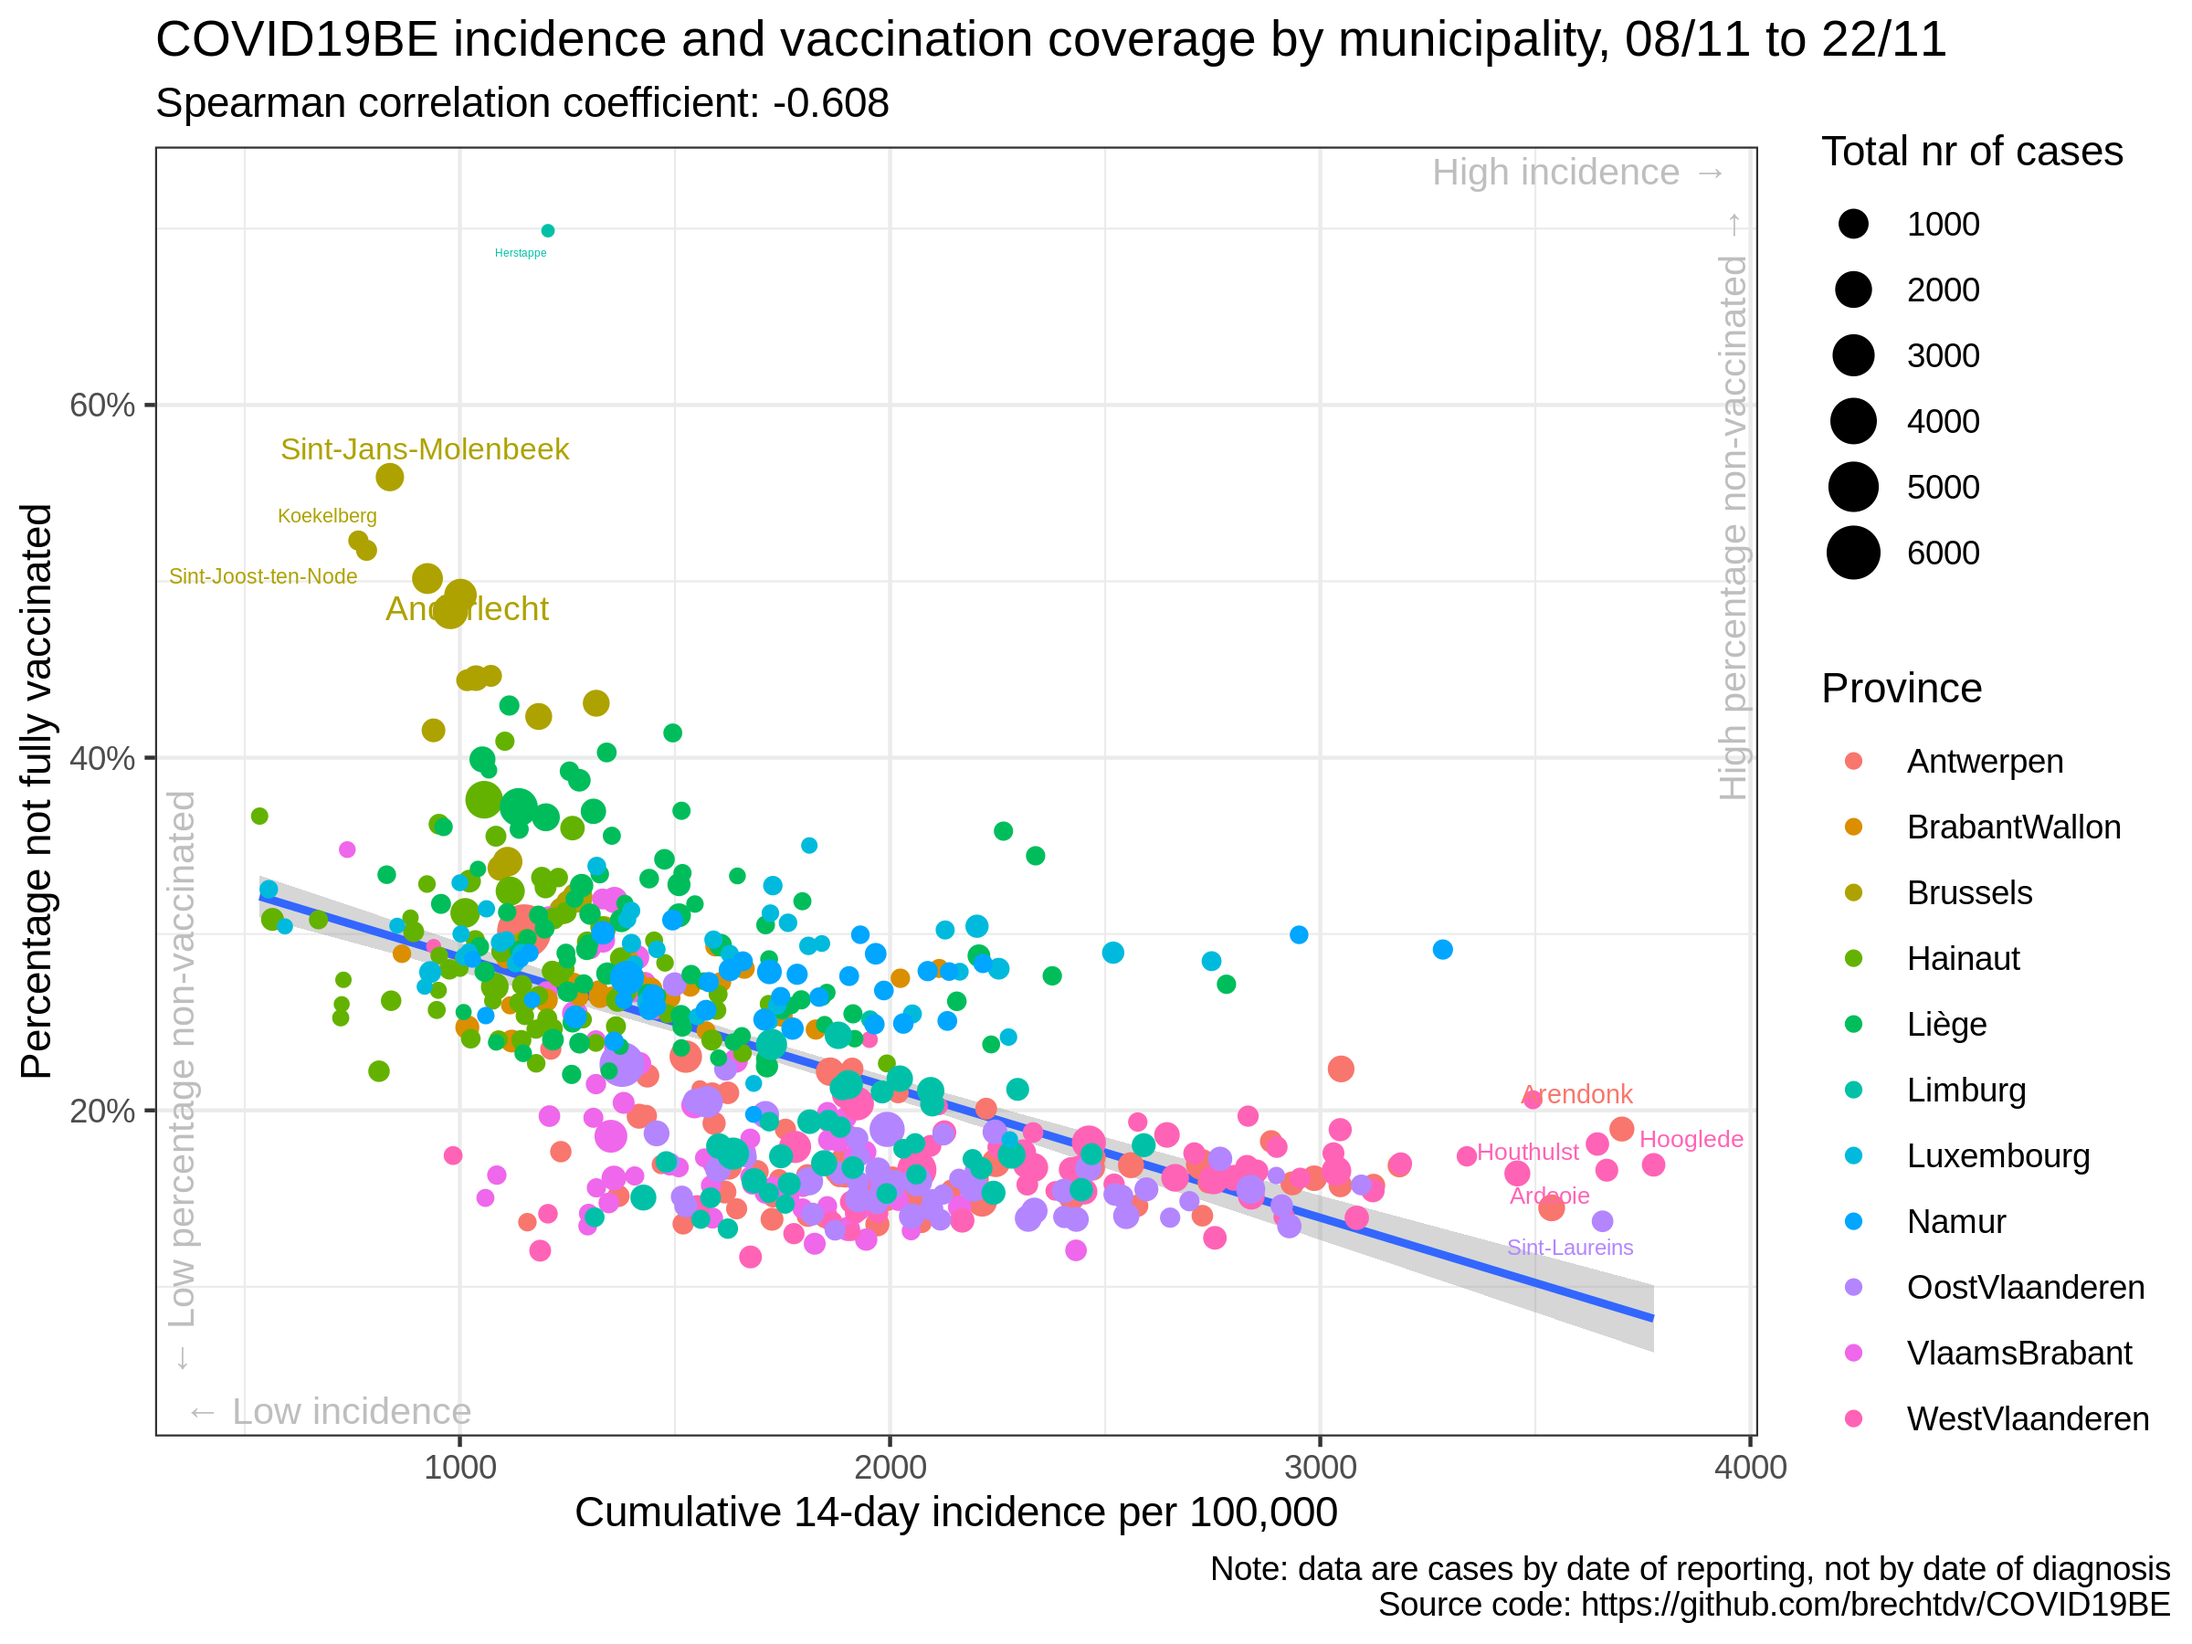
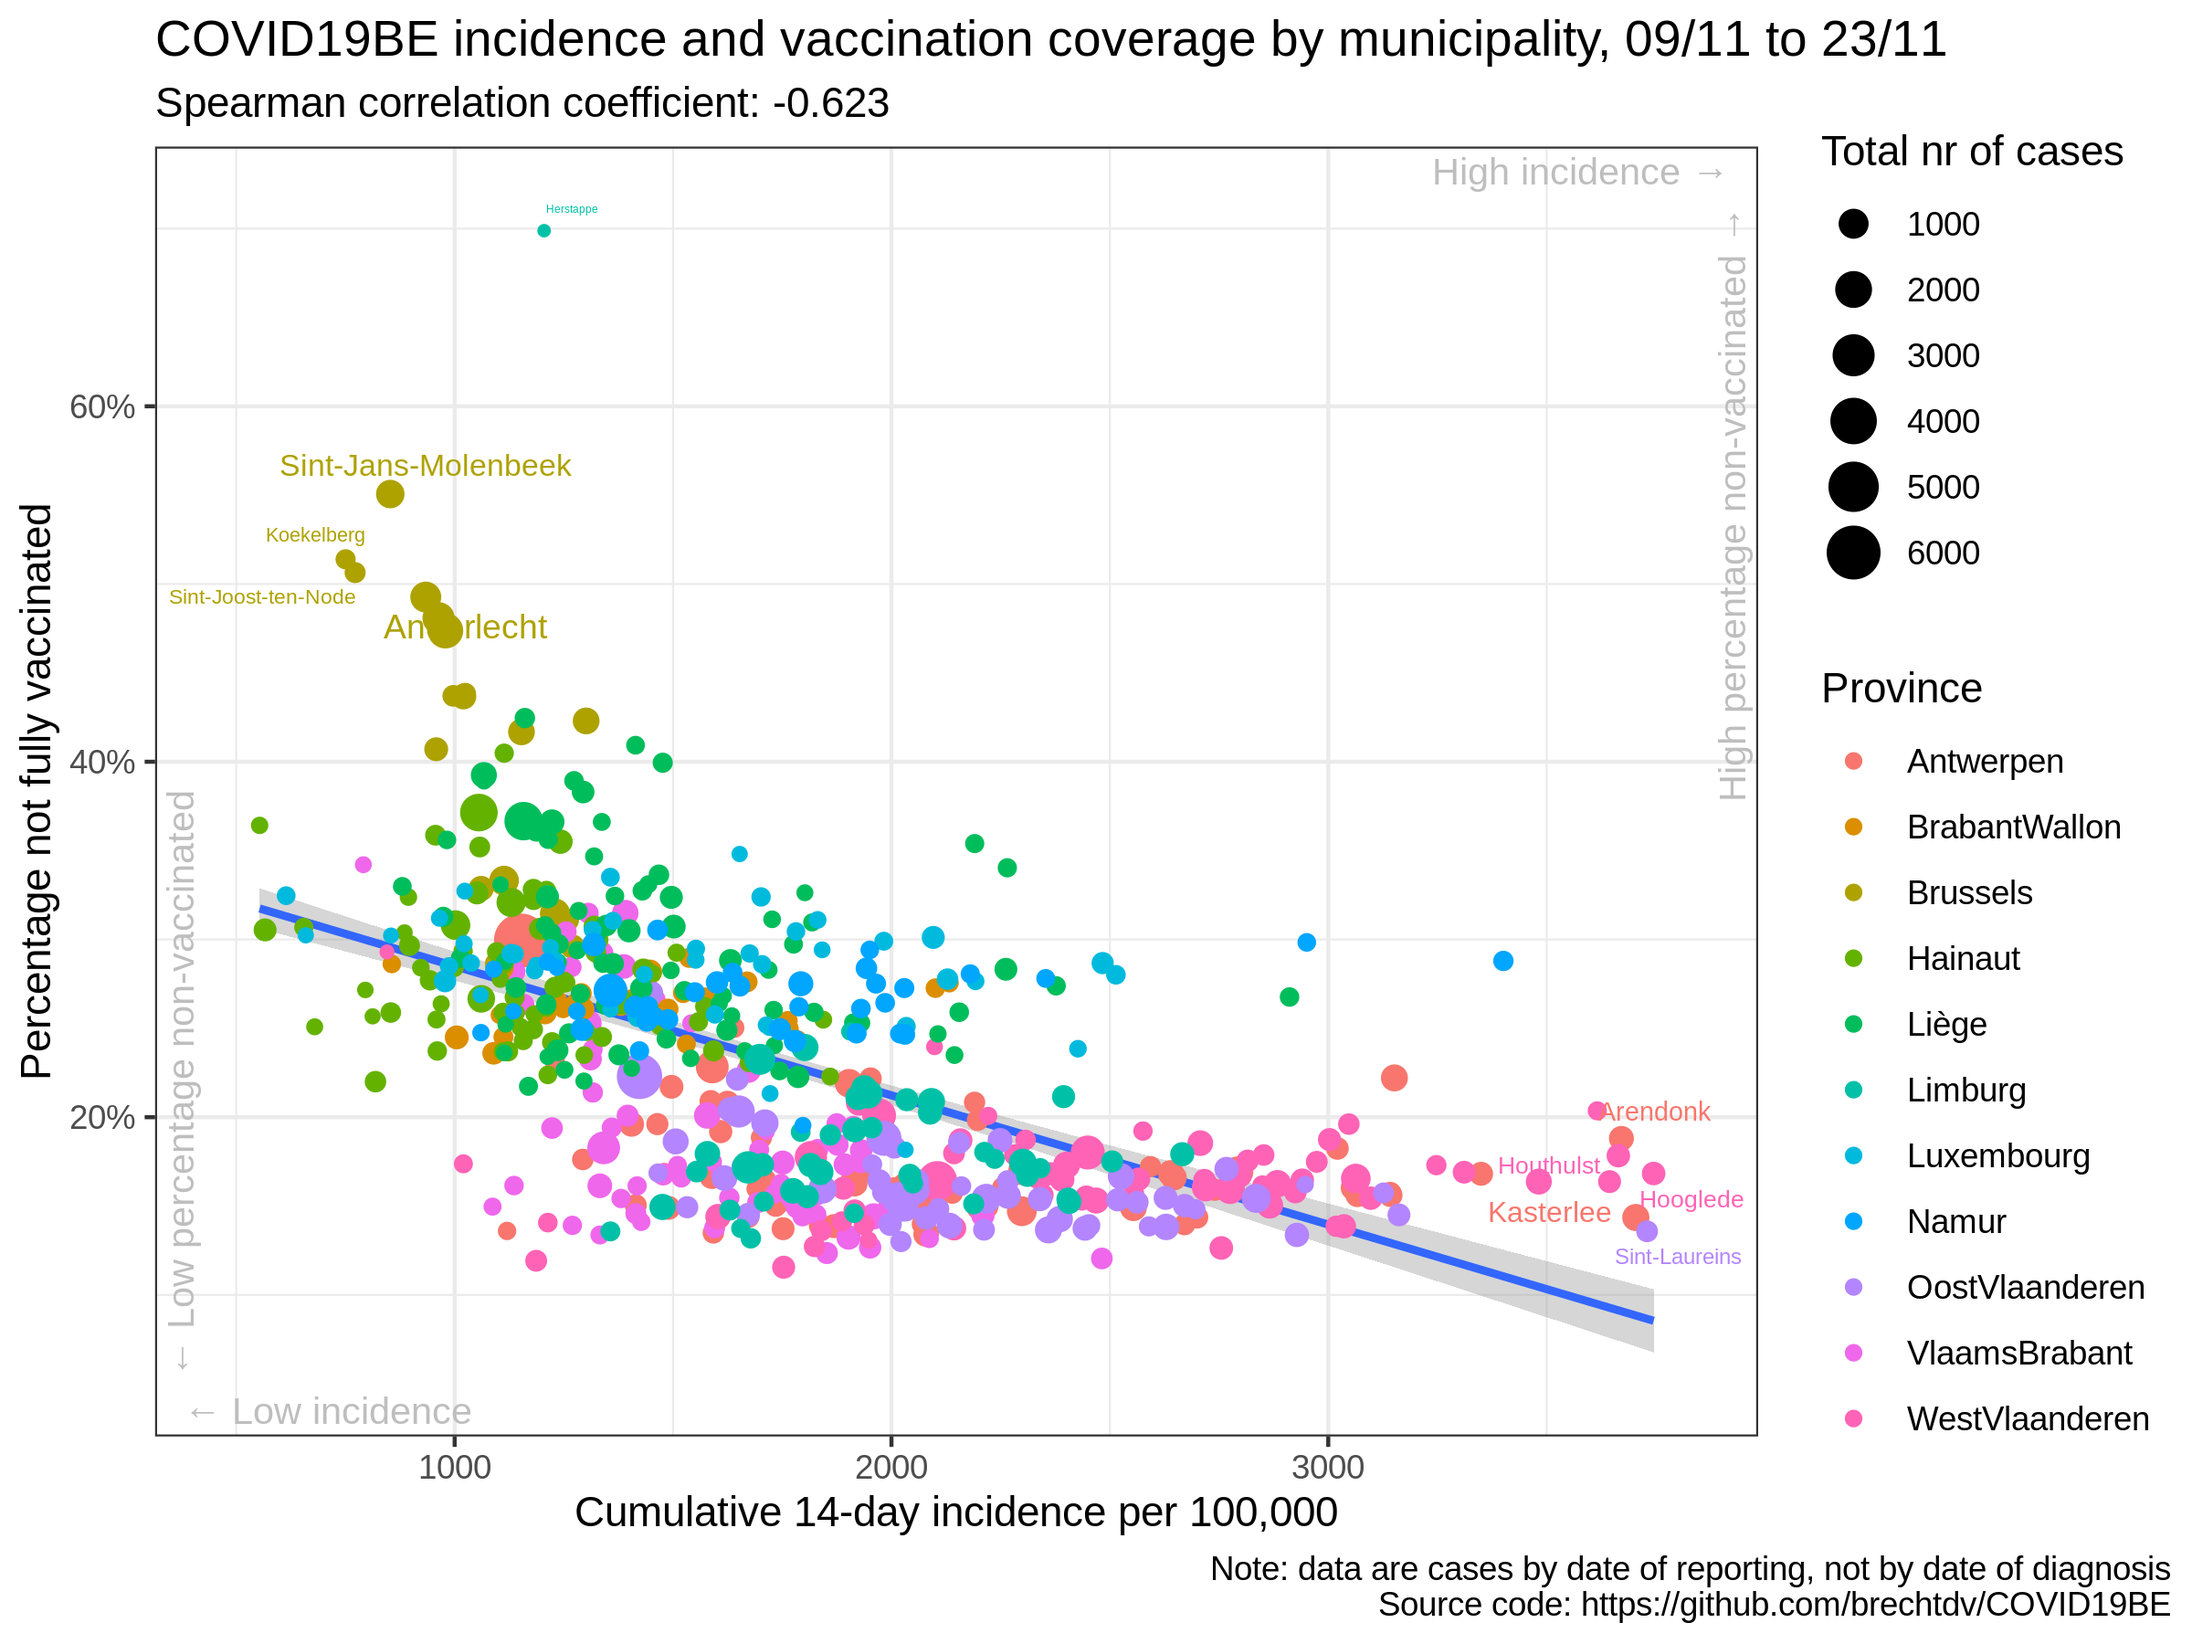
update situation

diff --git a/vaccination/README.md b/vaccination/README.md
@@ -13,18 +13,18 @@
 
 |                | estimate.rho | p.value |
 | :------------- | -----------: | ------: |
-| Antwerpen      |      \-0.191 |   0.116 |
-| BrabantWallon  |        0.109 |   0.586 |
-| Brussels       |      \-0.826 |   0.000 |
-| Hainaut        |      \-0.262 |   0.030 |
-| Liège          |      \-0.313 |   0.004 |
-| Limburg        |        0.234 |   0.135 |
-| Luxembourg     |      \-0.291 |   0.056 |
-| Namur          |        0.095 |   0.570 |
-| OostVlaanderen |      \-0.460 |   0.000 |
-| VlaamsBrabant  |      \-0.466 |   0.000 |
-| WestVlaanderen |        0.139 |   0.274 |
-| Belgium        |      \-0.608 |   0.000 |
+| Antwerpen      |      \-0.215 |   0.076 |
+| BrabantWallon  |        0.139 |   0.487 |
+| Brussels       |      \-0.807 |   0.000 |
+| Hainaut        |      \-0.291 |   0.015 |
+| Liège          |      \-0.302 |   0.005 |
+| Limburg        |        0.152 |   0.335 |
+| Luxembourg     |      \-0.351 |   0.020 |
+| Namur          |        0.109 |   0.512 |
+| OostVlaanderen |      \-0.514 |   0.000 |
+| VlaamsBrabant  |      \-0.524 |   0.000 |
+| WestVlaanderen |        0.158 |   0.213 |
+| Belgium        |      \-0.623 |   0.000 |
 
 ### Data source
 
